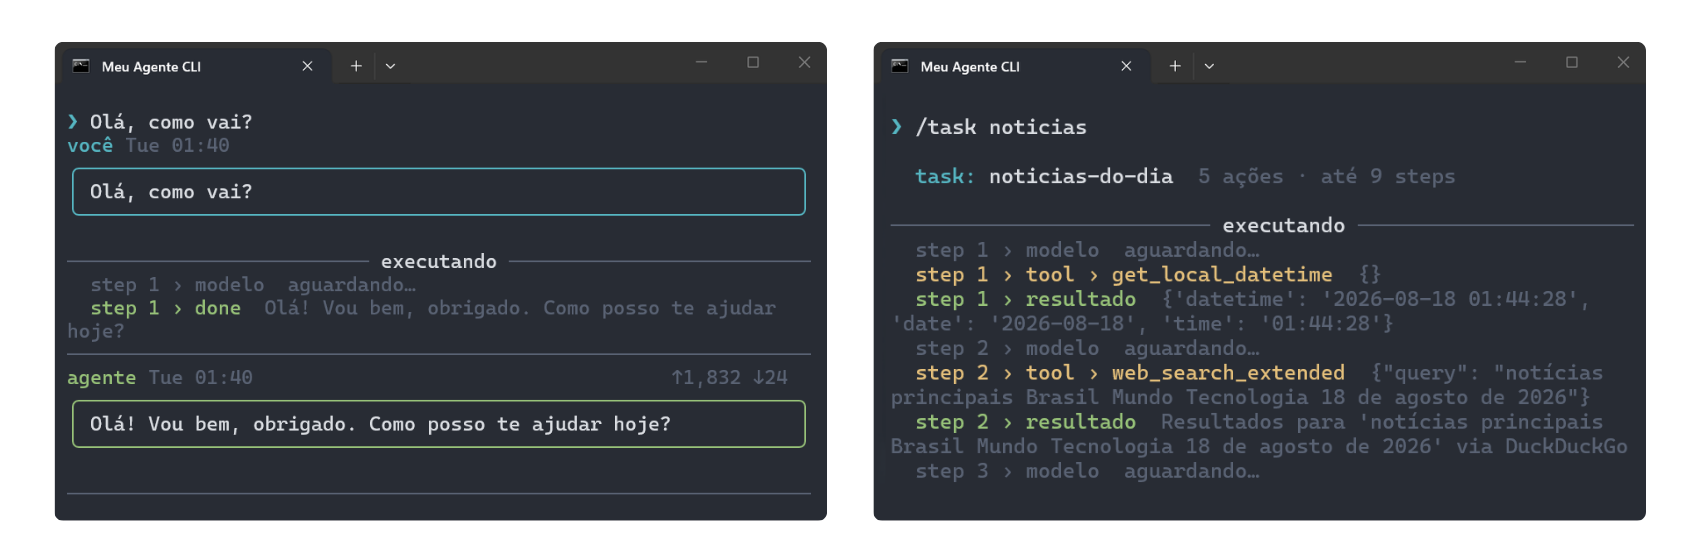
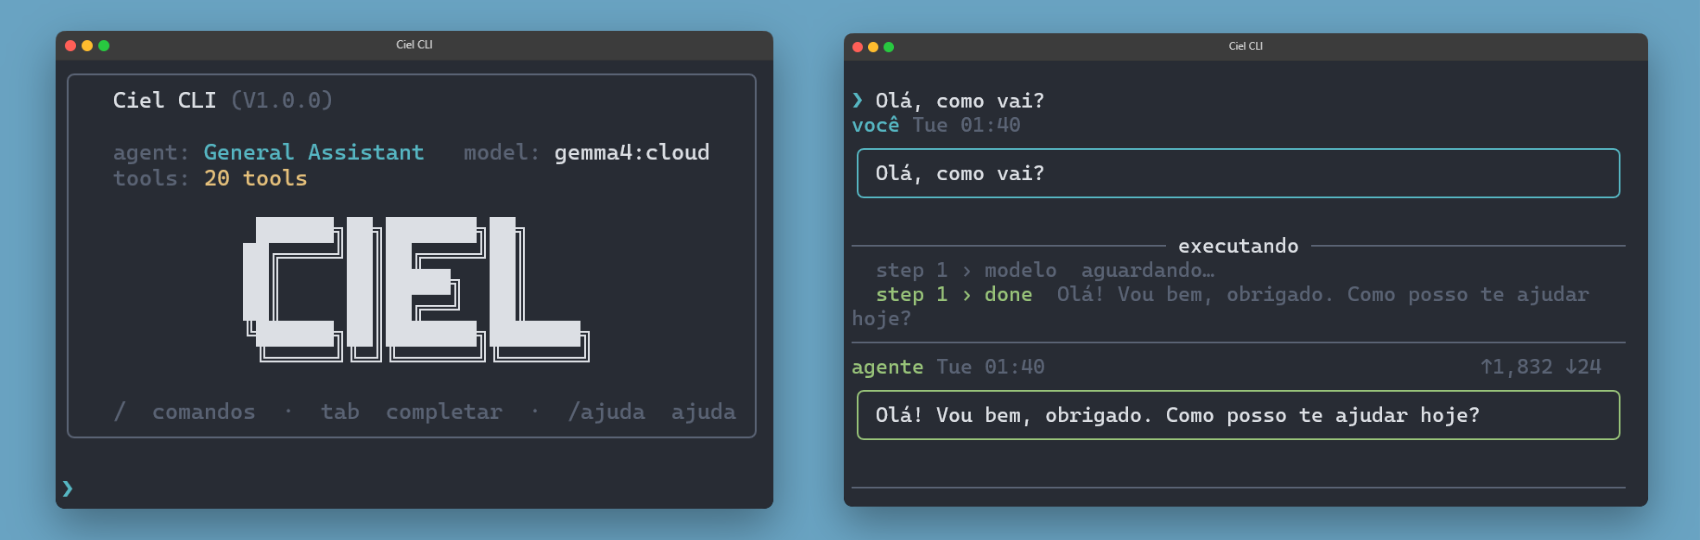
docs: Atualiza screenshots do README

diff --git a/README.md b/README.md
@@ -109,6 +109,9 @@ O agente executa as ações em ordem como um inspetor — sem planejar, sem impr
 ```
 
 Se mais de uma task corresponder ao nome buscado, o agente lista as candidatas e pede para escolher.
+<p align="center">
+  <img src="docs/assets/screenshot_task.png" width="600">
+</p>
 
 ## Base de conhecimento (fontes)
 
